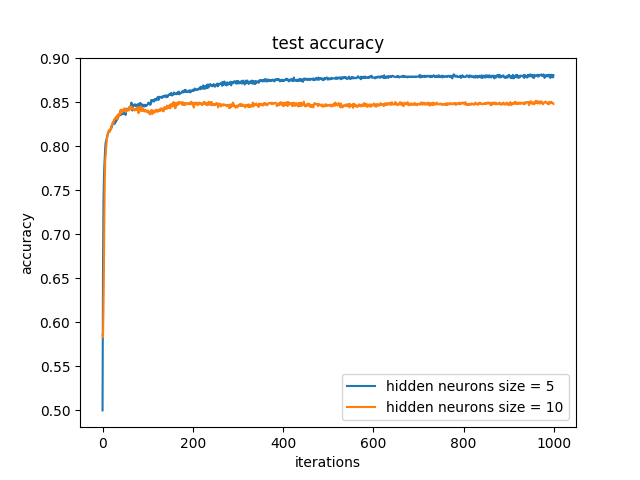
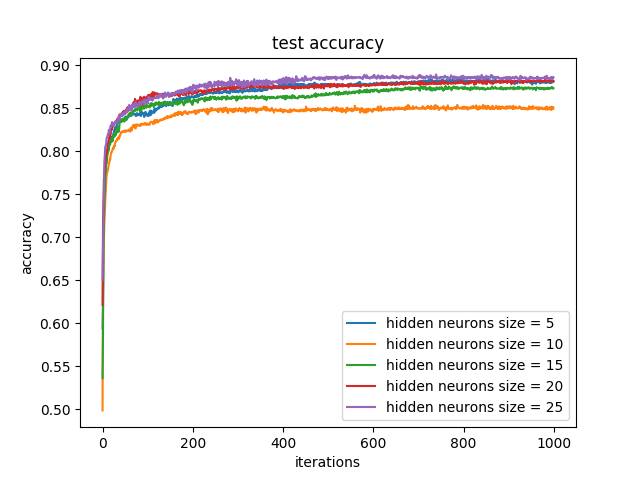
did stuff to question 2 and 3

diff --git a/project_1/part_a/q2/main.py b/project_1/part_a/q2/main.py
@@ -108,14 +108,14 @@ print(testX.shape, testY.shape)
 
 # train and test
 n = len(trainX)
-
 result = dict()
 result["test_accuracy"] = []
 result["train_cost"] = []
 result["time_update"] = []
+time_for_update = np.zeros(n)
 
 # batch_size_list = [4, 8, 16, 32, 64]
-batch_size_list = [32, 64]
+batch_size_list = [4, 8, 16, 32, 64]
 
 for batch_size in batch_size_list:
     test_accuracy = []
@@ -132,17 +132,18 @@ for batch_size in batch_size_list:
         test_accuracy.append(np.mean(np.argmax(testY, axis=1) == predict(testX)))
         # print(test_accuracy)
 
-    print("Before : ", w1.get_value()[0])
+
     w1.set_value(init_weights(36, 10))
     b1.set_value(init_bias(10)) #weights and biases from input to hidden layer
-    print("After : ", w1.get_value()[0])
+
     w2.set_value(init_weights(10, 6, logistic=False))
     b2.set_value(init_bias(6)) #weights and biases from hidden to output layer
 
     result["test_accuracy"].append(test_accuracy)
     result["train_cost"].append(train_cost)
-    result["time_update"].append(((time.time()-t))/epochs*np.arange(epochs))
+    result["time_update"].append((np.arange(epochs)*(time.time()-t))/epochs)
 
+    time_for_update[batch_size] = (1000*(time.time()-t)) / (epochs * (n // batch_size)) 
 #print('%.1f accuracy at %d iterations'%(np.max(test_accuracy)*100, np.argmax(test_accuracy)+1))
 
 #result = np.mean(result, axis=0)
@@ -172,5 +173,15 @@ plt.xlabel('time for update in s')
 plt.ylabel('cross-entropy')
 plt.title('title')
 plt.savefig('p2b_time_update.png')
+
+plt.figure()
+#for label, time in zip(batch_size_list, result["time_update"]):
+    #plt.plot(label, time, label="batch size = " + str(label))
+plt.plot(batch_size_list, time_for_update[batch_size_list])
+plt.xlabel('batch-size')
+plt.ylabel('time')
+plt.title('title')
+plt.xticks(batch_size_list)
+plt.savefig('p2b3_time_update.png')
 
 plt.show()

diff --git a/project_1/part_a/q3/main.py b/project_1/part_a/q3/main.py
@@ -109,13 +109,13 @@ print(testX.shape, testY.shape)
 
 # train and test
 n = len(trainX)
-
+time_for_update = np.zeros(n)
 result = dict()
 result["test_accuracy"] = []
 result["train_cost"] = []
 result["time_update"] = []
 #TODO - find optimal hidden neruons
-hidden_neruon_list = [5,10]
+hidden_neruon_list = [5,10,15,20,25]
 
 for hidden_neruon in hidden_neruon_list:
     test_accuracy = []
@@ -142,7 +142,7 @@ for hidden_neruon in hidden_neruon_list:
     result["test_accuracy"].append(test_accuracy)
     result["train_cost"].append(train_cost)
     result["time_update"].append(((time.time()-t))/epochs*np.arange(epochs))
-
+    time_for_update[hidden_neruon] = (1000*(time.time()-t)) / (epochs * (n // batch_size))
 #print('%.1f accuracy at %d iterations'%(np.max(test_accuracy)*100, np.argmax(test_accuracy)+1))
 
 #result = np.mean(result, axis=0)
@@ -173,4 +173,11 @@ plt.ylabel('cross-entropy')
 plt.title('title')
 plt.savefig('p2b_time_update.png')
 
+plt.figure()
+plt.plot(hidden_neruon_list, time_for_update[hidden_neruon_list])
+plt.xlabel('hidden neuron size')
+plt.ylabel('time for update in ms')
+plt.title('time for a weight update')
+plt.xticks(hidden_neruon_list)
+plt.savefig('figure_t4q2_4.png')
 plt.show()
